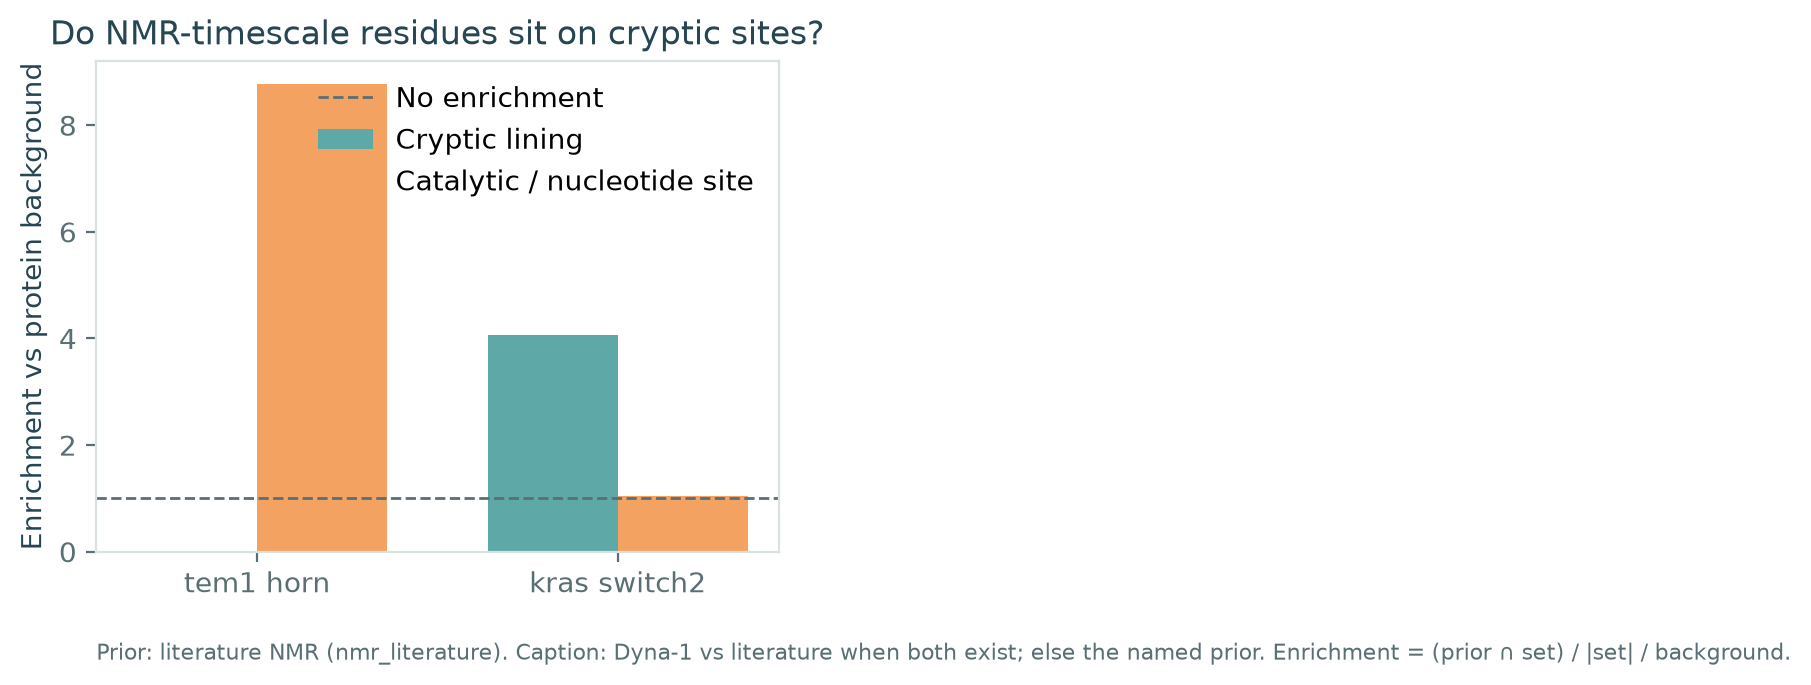
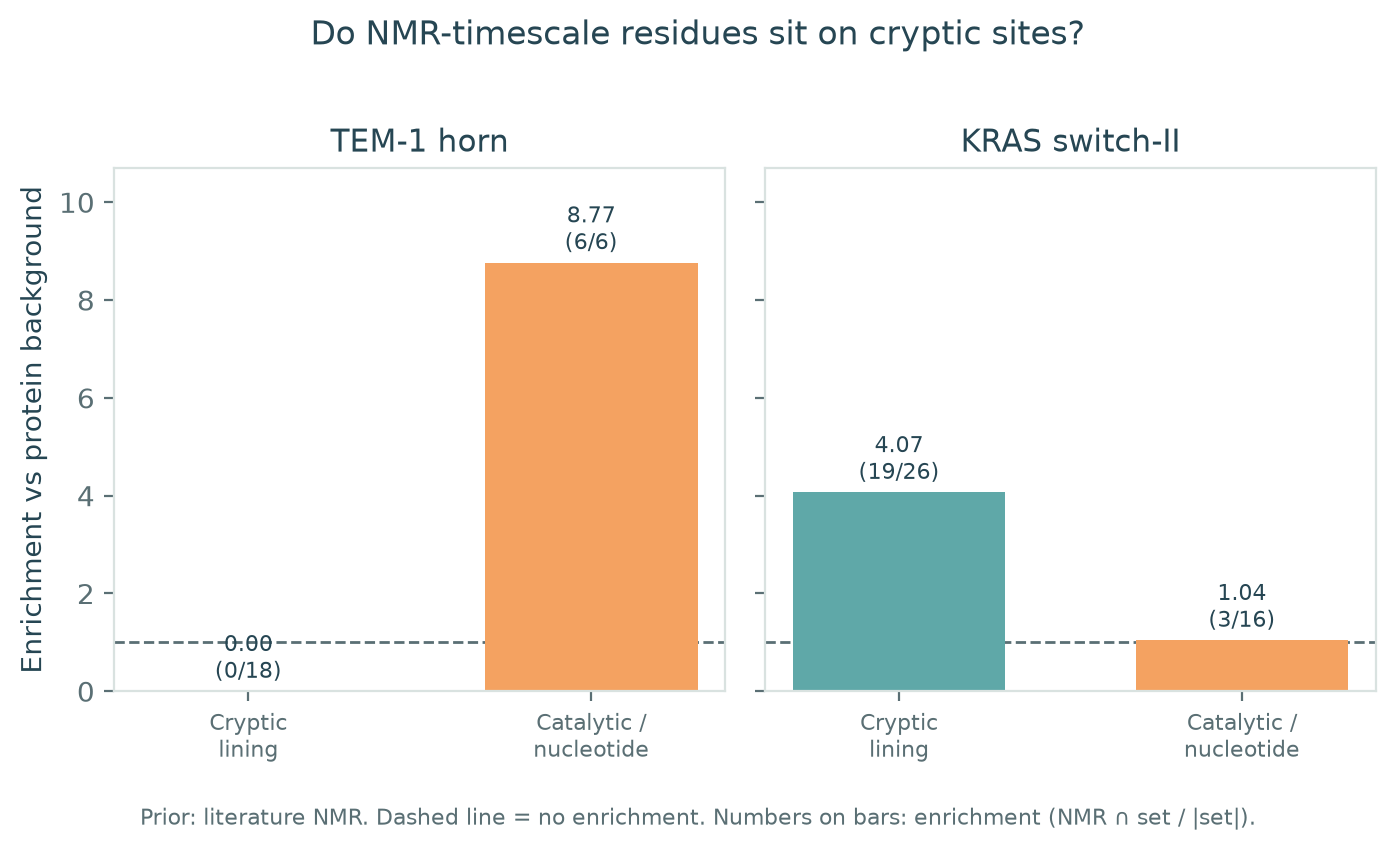
fix figure outline

diff --git a/src/pocket_atlas/viz/figures.py b/src/pocket_atlas/viz/figures.py
@@ -21,43 +21,82 @@ def _style(ax) -> None:
     ax.title.set_color(TEXT)
 
 
+def _prior_label(source: str) -> str:
+    if source == "dyna1":
+        return "Dyna-1"
+    if source == "relaxdb_cpmg":
+        return "RelaxDB-CPMG"
+    return "literature NMR"
+
+
+def _case_title(camp: Campaign) -> str:
+    raw = camp.case.raw.get("title") or camp.case.name
+    if camp.case.name == "tem1_horn":
+        return "TEM-1 horn"
+    if camp.case.name == "kras_switch2":
+        return "KRAS switch-II"
+    return raw
+
+
 def fig_overlap_enrichment(campaigns: list[Campaign], path: Path | None = None) -> Path:
-    """Hero figure: NMR/Dyna-1 enrichment in cryptic lining vs catalytic control."""
+    """Hero: one panel per case so a 0.00 bar and an 8× control are both readable."""
     ensure_dirs()
     path = path or (FIGURES / "fig4_overlap_enrichment.png")
-    labels = []
-    cryptic = []
-    control = []
-    sources = []
-    for camp in campaigns:
-        labels.append(camp.case.name.replace("_", " "))
-        cryptic.append(camp.overlap.cryptic_enrichment)
-        control.append(camp.overlap.control_enrichment)
-        sources.append(camp.scores_source)
-
-    fig, ax = plt.subplots(figsize=(7.08, 3.6), dpi=200)
+    n = max(len(campaigns), 1)
+    fig, axes = plt.subplots(1, n, figsize=(3.54 * n, 3.8), dpi=200, sharey=True)
     fig.patch.set_facecolor(FACE)
-    x = np.arange(len(labels))
-    width = 0.36
-    ax.bar(x - width / 2, cryptic, width, color=TEAL, label="Cryptic lining")
-    ax.bar(x + width / 2, control, width, color=ACCENT, label="Catalytic / nucleotide site")
-    ax.axhline(1.0, color=MUTED, ls="--", lw=1, label="No enrichment")
-    ax.set_xticks(x)
-    ax.set_xticklabels(labels)
-    ax.set_ylabel("Enrichment vs protein background")
-    ax.set_title("Do NMR-timescale residues sit on cryptic sites?")
-    ax.legend(frameon=False, loc="upper right")
-    _style(ax)
-    source = ", ".join(dict.fromkeys(sources)) if sources else ""
-    label = "Dyna-1" if source == "dyna1" else (
-        "RelaxDB-CPMG" if source == "relaxdb_cpmg" else "literature NMR"
-    )
-    ax.text(
-        0.0,
-        -0.22,
-        f"Prior: {label} ({source}). Caption: Dyna-1 vs literature when both exist; "
-        "else the named prior. Enrichment = (prior ∩ set) / |set| / background.",
-        transform=ax.transAxes,
+    if n == 1:
+        axes = [axes]
+
+    ymax = 1.4
+    for camp in campaigns:
+        ymax = max(ymax, camp.overlap.cryptic_enrichment, camp.overlap.control_enrichment)
+    ymax = ymax * 1.22
+
+    sources = []
+    for ax, camp in zip(axes, campaigns, strict=True):
+        ov = camp.overlap
+        sources.append(ov.source)
+        vals = [ov.cryptic_enrichment, ov.control_enrichment]
+        counts = [
+            f"{ov.cryptic_and_nmr}/{ov.n_cryptic}",
+            f"{ov.control_and_nmr}/{ov.n_control}",
+        ]
+        names = ["Cryptic\nlining", "Catalytic /\nnucleotide"]
+        colors = [TEAL, ACCENT]
+        bars = ax.bar(names, vals, color=colors, width=0.62, zorder=2)
+        ax.axhline(1.0, color=MUTED, ls="--", lw=1, zorder=1)
+        for bar, val, count in zip(bars, vals, counts, strict=True):
+            # Zero-height bars are invisible; keep a baseline tick + label.
+            y = val if val > 0.08 else 0.0
+            va = "bottom" if val > 0.08 else "bottom"
+            offset = 0.12 if val > 0.08 else 0.12
+            ax.text(
+                bar.get_x() + bar.get_width() / 2,
+                y + offset,
+                f"{val:.2f}\n({count})",
+                ha="center",
+                va=va,
+                color=TEXT,
+                fontsize=8,
+            )
+        ax.set_ylim(0, ymax)
+        ax.set_title(_case_title(camp), color=TEXT, fontsize=11)
+        _style(ax)
+        ax.tick_params(axis="x", labelsize=8)
+
+    axes[0].set_ylabel("Enrichment vs protein background")
+    fig.suptitle("Do NMR-timescale residues sit on cryptic sites?", color=TEXT, fontsize=12, y=1.02)
+    prior = _prior_label(sources[0] if sources else "")
+    extras = ""
+    if len(set(sources)) > 1:
+        extras = "  ·  " + "; ".join(f"{_case_title(c)}: {_prior_label(c.overlap.source)}" for c in campaigns)
+    fig.text(
+        0.5,
+        -0.04,
+        f"Prior: {prior}{extras}. Dashed line = no enrichment. "
+        "Numbers on bars: enrichment (NMR ∩ set / |set|).",
+        ha="center",
         color=MUTED,
         fontsize=8,
     )
